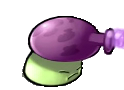
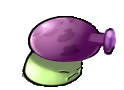
修改大喷菇贴图

Changed region(s): [[0.9194, 0.3111, 1.0, 0.5556], [0.871, 0.2889, 0.8952, 0.3111]]

diff --git a/README.md b/README.md
@@ -4,7 +4,7 @@
   
 **本项目为个人python语言学习的练习项目，仅供个人学习和研究使用，不得用于其他用途。如果这个游戏侵犯了版权，请联系我删除**
 
-* 已有的植物：向日葵，豌豆射手，坚果墙，寒冰射手，樱桃炸弹，双发射手，三线射手，大嘴花，小喷菇，土豆雷，地刺，胆小菇，倭瓜，火爆辣椒，阳光菇，寒冰菇，魅惑菇，火炬树桩，睡莲，杨桃，咖啡豆，海蘑菇，高坚果，缠绕水草，毁灭菇，墓碑吞噬者
+* 已有的植物：向日葵，豌豆射手，坚果墙，寒冰射手，樱桃炸弹，双发射手，三线射手，大嘴花，小喷菇，土豆雷，地刺，胆小菇，倭瓜，火爆辣椒，阳光菇，寒冰菇，魅惑菇，火炬树桩，睡莲，杨桃，咖啡豆，海蘑菇，高坚果，缠绕水草，毁灭菇，墓碑吞噬者，大喷菇
 * 已有的僵尸：普通僵尸，旗帜僵尸，路障僵尸，铁桶僵尸，读报僵尸，橄榄球僵尸，鸭子救生圈僵尸，铁门僵尸
 * 使用 JSON 文件记录关卡信息数据 
 * 支持选择植物卡片
